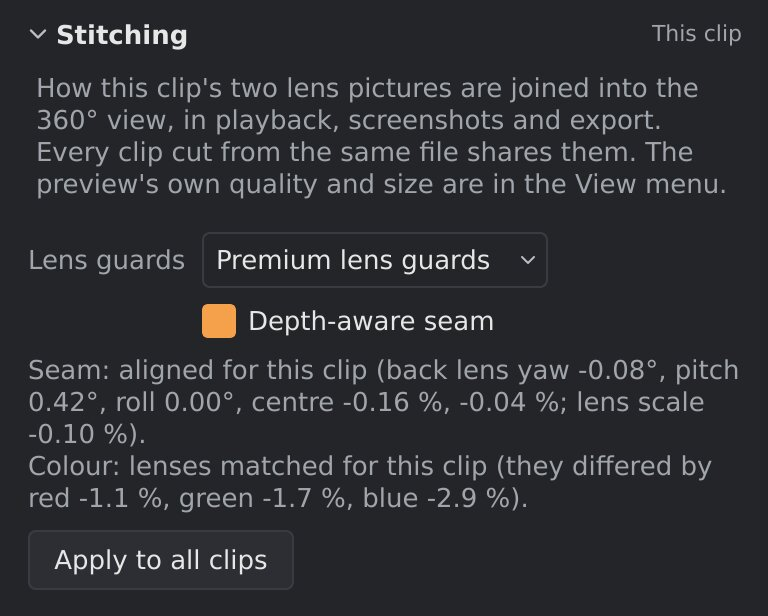
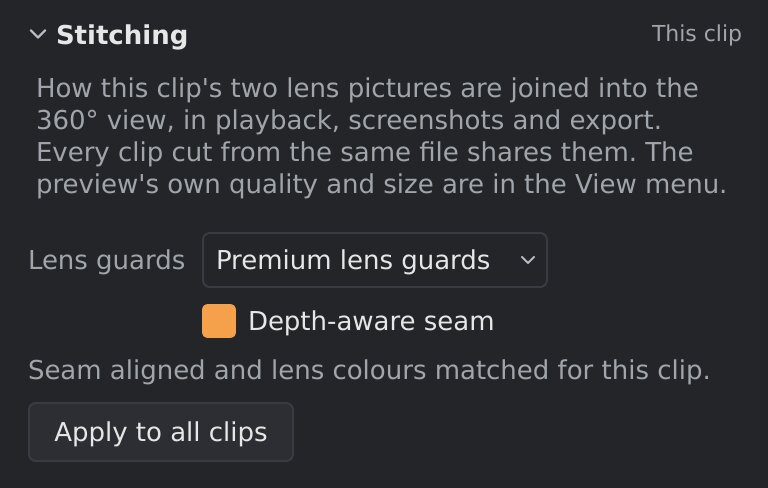
fix(ui): one status line for the seam and the lens colour
The seam alignment's and the lens colour's status lines, each with their
measured figures, no longer fit the Stitching panel. They are one short
line now ("Seam aligned and lens colours matched for this clip.", or how
far the two measurements have got, a failure with its reason); the figures
move to the line's tooltip.

diff --git a/src/ui/ClipMeasurements.cpp b/src/ui/ClipMeasurements.cpp
@@ -228,40 +228,105 @@ QString ClipMeasurements::failureText(stitch::MeasureFailure why, bool seam)
     return tr("the file can't be read");
 }
 
-QString ClipMeasurements::seamStatus(const ClipItem *c) const
+QString ClipMeasurements::stitchStatus(const ClipItem *c, QString *details) const
 {
-    insv::SeamCorrection seam;
-    if (c && m_project->timeline()->sourceSeamCorrection(c->sourcePath, seam))
-        return tr("Seam: aligned for this clip (back lens yaw %1°, pitch %2°, roll %3°, "
-                  "centre %4 %, %5 %; lens scale %6 %).")
-            .arg(seam.lens1RotDeg[0], 0, 'f', 2)
-            .arg(seam.lens1RotDeg[1], 0, 'f', 2)
-            .arg(seam.lens1RotDeg[2], 0, 'f', 2)
-            .arg(seam.lens1Centre[0] * 100.0, 0, 'f', 2)
-            .arg(seam.lens1Centre[1] * 100.0, 0, 'f', 2)
-            .arg((seam.radialScale - 1.0) * 100.0, 0, 'f', 2);
-    if (c && m_seamMeasuringPath == c->sourcePath)
-        return tr("Seam: measuring this clip…");
-    if (const auto it = c ? m_seamFailed.constFind(c->sourcePath) : m_seamFailed.cend();
-        it != m_seamFailed.cend())
-        return tr("Seam: couldn't align this clip (%1).").arg(failureText(*it, true));
-    return QString();
-}
+    if (details)
+        details->clear();
+    if (!c)
+        return QString();
+    enum class State { None, Measuring, Done, Failed };
+    const QString &path = c->sourcePath;
+    const Timeline *t = m_project->timeline();
 
-QString ClipMeasurements::colourStatus(const ClipItem *c) const
-{
+    insv::SeamCorrection seam;
+    QString seamWhy, colourWhy;
+    State s = State::None, k = State::None;
+    if (t->sourceSeamCorrection(path, seam)) {
+        s = State::Done;
+    } else if (m_seamMeasuringPath == path) {
+        s = State::Measuring;
+    } else if (const auto it = m_seamFailed.constFind(path); it != m_seamFailed.cend()) {
+        s = State::Failed;
+        seamWhy = failureText(*it, true);
+    }
     insv::LensColour colour;
-    if (c && m_project->timeline()->sourceLensColour(c->sourcePath, colour))
-        return tr("Colour: lenses matched for this clip (they differed by red %1 %, "
-                  "green %2 %, blue %3 %).")
-            .arg(std::expm1(colour.logRatio[0]) * 100.0, 0, 'f', 1)
-            .arg(std::expm1(colour.logRatio[1]) * 100.0, 0, 'f', 1)
-            .arg(std::expm1(colour.logRatio[2]) * 100.0, 0, 'f', 1);
-    if (c && m_colourMeasuringPath == c->sourcePath)
-        return tr("Colour: measuring this clip's lenses…");
-    if (const auto it = c ? m_colourFailed.constFind(c->sourcePath) : m_colourFailed.cend();
-        it != m_colourFailed.cend())
-        return tr("Colour: couldn't match this clip's lenses (%1).").arg(failureText(*it, true));
+    if (t->sourceLensColour(path, colour)) {
+        k = State::Done;
+    } else if (m_colourMeasuringPath == path) {
+        k = State::Measuring;
+    } else if (const auto it = m_colourFailed.constFind(path); it != m_colourFailed.cend()) {
+        k = State::Failed;
+        colourWhy = failureText(*it, true);
+    }
+
+    // The figures, for the tooltip: they matter when checking a clip, not
+    // while editing.
+    if (details) {
+        QStringList lines;
+        if (s == State::Done)
+            lines << tr("Seam: the back lens turned by yaw %1°, pitch %2°, roll %3°; its centre "
+                        "moved by %4 %, %5 %; lens scale %6 %.")
+                         .arg(seam.lens1RotDeg[0], 0, 'f', 2)
+                         .arg(seam.lens1RotDeg[1], 0, 'f', 2)
+                         .arg(seam.lens1RotDeg[2], 0, 'f', 2)
+                         .arg(seam.lens1Centre[0] * 100.0, 0, 'f', 2)
+                         .arg(seam.lens1Centre[1] * 100.0, 0, 'f', 2)
+                         .arg((seam.radialScale - 1.0) * 100.0, 0, 'f', 2);
+        if (k == State::Done)
+            lines << tr("Lens colours: the lenses differed by red %1 %, green %2 %, blue %3 %.")
+                         .arg(std::expm1(colour.logRatio[0]) * 100.0, 0, 'f', 1)
+                         .arg(std::expm1(colour.logRatio[1]) * 100.0, 0, 'f', 1)
+                         .arg(std::expm1(colour.logRatio[2]) * 100.0, 0, 'f', 1);
+        *details = lines.join(QLatin1Char('\n'));
+    }
+
+    // One short line. The colour is measured after the seam, so the seam
+    // leads; a failure keeps its reason in view.
+    switch (s) {
+    case State::Measuring:
+        return tr("Measuring this clip's seam…");
+    case State::Done:
+        switch (k) {
+        case State::Done:
+            return tr("Seam aligned and lens colours matched for this clip.");
+        case State::Measuring:
+            return tr("Seam aligned; measuring this clip's lens colours…");
+        case State::Failed:
+            return tr("Seam aligned; couldn't match the lens colours (%1).").arg(colourWhy);
+        case State::None:
+            break;
+        }
+        return tr("Seam aligned for this clip.");
+    case State::Failed:
+        switch (k) {
+        case State::Done:
+            return tr("Couldn't align this clip's seam (%1); lens colours matched.").arg(seamWhy);
+        case State::Measuring:
+            return tr("Couldn't align this clip's seam (%1); measuring the lens colours…")
+                .arg(seamWhy);
+        case State::Failed:
+            return colourWhy == seamWhy
+                       ? tr("Couldn't align this clip's seam or match its lens colours (%1).")
+                             .arg(seamWhy)
+                       : tr("Couldn't align this clip's seam (%1) or match its lens colours (%2).")
+                             .arg(seamWhy, colourWhy);
+        case State::None:
+            break;
+        }
+        return tr("Couldn't align this clip's seam (%1).").arg(seamWhy);
+    case State::None:
+        break;
+    }
+    switch (k) {
+    case State::Done:
+        return tr("Lens colours matched for this clip.");
+    case State::Measuring:
+        return tr("Measuring this clip's lens colours…");
+    case State::Failed:
+        return tr("Couldn't match this clip's lens colours (%1).").arg(colourWhy);
+    case State::None:
+        break;
+    }
     return QString();
 }
 

diff --git a/tests/main_window_test.cpp b/tests/main_window_test.cpp
@@ -1808,15 +1808,17 @@ void testMeasurementFailureReasons(const Ctx &c)
     const int garbage = t->appendClip(c.clipA, kClipMs, kFps); // not a video at all
     const int flat = t->appendClip(c.mp4, kClipMs, kFps);      // a video, not a 360 one
     ClipMeasurements measurements(&project, true);
-    const auto status = [&](int id) { return measurements.seamStatus(t->clipById(id)); };
+    const auto status = [&](int id) { return measurements.stitchStatus(t->clipById(id)); };
     measurements.schedule();
+    // The lens colour is tried after the seam, and fails for the same reason.
     CHECK(waitFor([&] {
-        return status(garbage).contains(QStringLiteral("couldn't align")) &&
-               status(flat).contains(QStringLiteral("couldn't align"));
+        return status(garbage).contains(QStringLiteral("or match")) &&
+               status(flat).contains(QStringLiteral("or match"));
     }, 20000));
-    CHECK(status(flat) == QStringLiteral("Seam: couldn't align this clip (not a 360 camera file)."));
-    CHECK(status(garbage) ==
-          QStringLiteral("Seam: couldn't align this clip (the file can't be read)."));
+    CHECK(status(flat) == QStringLiteral("Couldn't align this clip's seam or match its lens "
+                                         "colours (not a 360 camera file)."));
+    CHECK(status(garbage) == QStringLiteral("Couldn't align this clip's seam or match its lens "
+                                            "colours (the file can't be read)."));
 }
 
 // A grade pasted from elsewhere (another project's LUT) brings its LUT into

diff --git a/src/ui/panels/StitchingPanel.cpp b/src/ui/panels/StitchingPanel.cpp
@@ -41,9 +41,6 @@ StitchingPanel::StitchingPanel(QWidget *parent)
 
     m_seamStatus = new QLabel(this);
     m_seamStatus->setWordWrap(true);
-    m_seamStatus->setToolTip(tr("orbis-reframe lines the two pictures up at the seam, and "
-                                "matches their colours, from the video itself, once for each "
-                                "clip, in the background."));
     m_seamStatus->hide();
     form()->addRow(m_seamStatus);
 
@@ -90,9 +87,13 @@ void StitchingPanel::setNoClip()
     setBodyEnabled(false);
 }
 
-void StitchingPanel::setSeamStatus(const QString &text)
+void StitchingPanel::setSeamStatus(const QString &text, const QString &details)
 {
+    const QString about = tr("orbis-reframe lines the two pictures up at the seam, and matches "
+                             "their colours, from the video itself, once for each clip, in the "
+                             "background.");
     m_seamStatus->setText(text);
+    m_seamStatus->setToolTip(details.isEmpty() ? about : about + QStringLiteral("\n\n") + details);
     m_seamStatus->setVisible(!text.isEmpty());
 }
 

diff --git a/src/ui/ClipMeasurements.h b/src/ui/ClipMeasurements.h
@@ -62,8 +62,10 @@ public:
     // The Stabilization / Stitching panels' status lines for clip `c` (null =
     // none): measured, measuring, failed, or empty.
     QString syncStatus(const ClipItem *c) const;
-    QString seamStatus(const ClipItem *c) const;
-    QString colourStatus(const ClipItem *c) const;
+    // The Stitching panel's one line for the seam alignment and the lens
+    // colour together; `details` (optional) gets the measured figures, for
+    // its tooltip.
+    QString stitchStatus(const ClipItem *c, QString *details = nullptr) const;
 
 signals:
     // A measurement started or finished: the status lines changed.

diff --git a/src/ui/panels/StitchingPanel.h b/src/ui/panels/StitchingPanel.h
@@ -32,8 +32,9 @@ public:
                   stitch::LensGuardProfiles profiles = stitch::LensGuardProfiles::all());
     // No clip to show: a new clip's settings, greyed out. Does not emit.
     void setNoClip();
-    // One line about the current clip's seam alignment (empty hides it).
-    void setSeamStatus(const QString &text);
+    // One line about the current clip's seam alignment and lens colour
+    // (empty hides it); `details`, the measured figures, go in its tooltip.
+    void setSeamStatus(const QString &text, const QString &details = QString());
 
 signals:
     void stitchEdited(LensGuard lensGuard, bool depthSeam);

diff --git a/src/ui/MainWindowStitchStab.cpp b/src/ui/MainWindowStitchStab.cpp
@@ -262,12 +262,9 @@ void MainWindow::pushSeamCorrection()
 
 void MainWindow::updateSeamStatus()
 {
-    const ClipItem *c = m_timeline->clipById(m_clipId);
-    QStringList lines;
-    for (const QString &s : {m_measurements->seamStatus(c), m_measurements->colourStatus(c)})
-        if (!s.isEmpty())
-            lines << s;
-    m_stitchingPanel->setSeamStatus(lines.join(QLatin1Char('\n')));
+    QString details;
+    const QString text = m_measurements->stitchStatus(m_timeline->clipById(m_clipId), &details);
+    m_stitchingPanel->setSeamStatus(text, details);
 }
 
 void MainWindow::updateSyncStatus()

diff --git a/docs/manual/stitching.md b/docs/manual/stitching.md
@@ -108,13 +108,26 @@ near the seam. Things close to the camera don't line up by this alone; see
 [Stabilization](stabilization.md)), this runs in the background while
 playback is paused, and the result is saved in the project.
 
-The **Stitching** section shows the state for the clip under the playhead:
+The **Stitching** section shows, in one line, how far this and the lens
+colour measurement (see *Lens colour* below) have got for the clip under the
+playhead:
 
 | Message | Meaning |
 |---|---|
-| *Seam: measuring this clip…* | The measurement is running. |
-| *Seam: aligned for this clip (back lens yaw …, pitch …, roll …, centre …, …; lens scale …).* | Done. Yaw, pitch and roll are how far the back lens is turned to line up with the front one, in degrees; the centre is how far its picture's centre moves, in percent of the picture's width; the lens scale is how much larger (or, negative, smaller) both lenses draw the picture near the seam, in percent. A fraction of a degree, and a few hundredths of a percent, are normal. |
-| *Seam: couldn't align this clip (…).* | The measurement didn't succeed; the brackets say why (below). The clip is stitched with the camera's lens model only. |
+| *Measuring this clip's seam…* | The seam alignment is running. The lens colour is measured after it. |
+| *Seam aligned; measuring this clip's lens colours…* | The seam is done, the lens colour is running. |
+| *Seam aligned and lens colours matched for this clip.* | Both done. |
+| *Couldn't align this clip's seam (…)* | The seam alignment didn't succeed; the brackets say why (below). The clip is stitched with the camera's lens model only, and its lens colour is still measured. |
+| *… couldn't match the lens colours (…)* | The lens colour measurement didn't succeed, for one of the same reasons. The lenses are stitched as recorded. |
+
+Hold the pointer over the line to see what was measured. For the seam: how
+far the back lens is turned to line up with the front one (yaw, pitch and
+roll, in degrees), how far its picture's centre moves (in percent of the
+picture's width), and how much larger (or, negative, smaller) both lenses
+draw the picture near the seam (the lens scale, in percent). A fraction of a
+degree, and a few hundredths of a percent, are normal. For the lens colour:
+how far apart the two lenses were on the seam, per colour, in percent; a few
+percent is normal.
 
 The reasons a measurement gives:
 
@@ -154,13 +167,8 @@ lenses stays the same white on both sides of the seam rather than turning
 slightly grey on one. Flare itself (veiling light from the sun on one lens)
 isn't removed: one lens really sees more light there.
 
-The **Stitching** section shows the state below the seam alignment's line:
-
-| Message | Meaning |
-|---|---|
-| *Colour: measuring this clip's lenses…* | The measurement is running. |
-| *Colour: lenses matched for this clip (they differed by red …, green …, blue … %).* | Done. How far apart the two lenses were on the seam, per colour, in percent; a few percent is normal. |
-| *Colour: couldn't match this clip's lenses (…).* | The measurement didn't succeed (the reasons are those of the seam alignment above). The lenses are stitched as recorded. |
+The **Stitching** section's line shows when it's done (see *Seam alignment*
+above).
 
 Like the seam alignment, changing **Lens guards** measures the clip's file
 again. Projects from older versions of orbis-reframe matched the lenses
